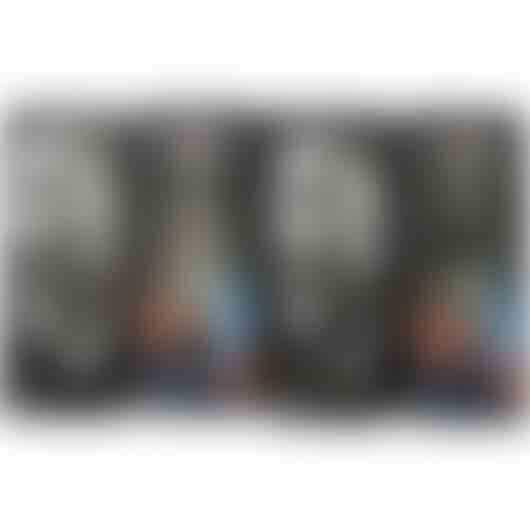
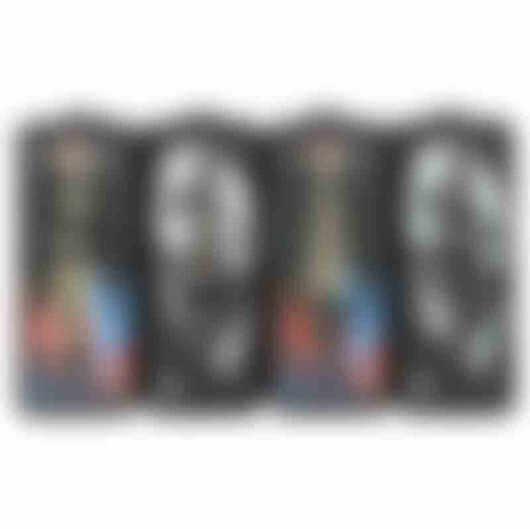
added expression pedal.

diff --git a/nunjucks/expression.html b/nunjucks/expression.html
@@ -1,6 +1,6 @@
-<% set title="Desktop Slider Expression Pedal by MAS Effects" %>
-<% set meta_description="Easily tweak knobs on your favorite pedals from the comfort of your desktop, mic stand, or anywhere within reach using this expression slider pedal for guitar, bass, or synth." %>
-<% set og_image="https://mas-effects.com/img/expression.png" %>
+<% set title="Desktop Slider Expression and Volume Pedal by MAS Effects" %>
+<% set meta_description="Slider volume and expression pedal can be used to tame a loud tube amp, or to easily tweak knobs on your favorite pedals from the comfort of your desktop, mic stand, or anywhere within reach. This expression slider and volume slider works great for guitar, bass, or synth." %>
+<% set og_image="https://mas-effects.com/img/expression/4x-expression.jpg" %>
 <% extends "partials/_template.html" %>
 
 <% block body %>
@@ -11,34 +11,125 @@
     <div class="container">
       <div class="row">
         <div class="col text-center">
-          <h1 class="mb-4 section-heading text-uppercase">Desktop Slider Expression Pedal</h1>
+          <h1 class="mb-4 section-heading text-uppercase">Desktop Slider Expression &amp; Volume Pedal</h1>
           <h3 class="section-subheading text-muted">Tweak your favorite settings from the comfort of your desktop, mic stand, or anywhere within reach</h3>
         </div>
       </div>
       <div class="row">
         <div class="col-12 col-md-6 text-center">
-          <img class="lazy img-fluid" src="/img/expression-placeholder.jpg" data-src="/img/expression.png" alt="Desktop Slider Expression Pedal" />
+          <img class="lazy img-fluid" src="/img/expression/4x-expression-placeholder.jpg" data-src="/img/expression/4x-expression.jpg" alt="Desktop Slider Expression + Volume Pedal" />
+          <form action="https://shop.mas-effects.com/cart/add" method="GET">
+            <select class="expression-pot mx-auto form-control form-control-sm" name="id">
+              <optgroup label="Volume + Expression [$49]">
+                <option value="40752969973921">Abduction (Vol + Exp, 100k)</option>
+                <option value="40752970006689">Abduction (Vol + Exp, 10k)</option>
+                <option value="40752970137761">Split Skull (Vol + Exp, 100k)</option>
+                <option value="40752970170529">Split Skull (Vol + Exp, 10k)</option>
+              </optgroup>
+              <optgroup label="Expression [$39]">
+                <option value="40752969908385">Abduction (Exp only, 100k)</option>
+                <option value="40752969941153">Abduction (Exp only, 10k)</option>
+                <option value="40752970072225">Split Skull (Exp only, 100k)</option>
+                <option value="40752970104993">Split Skull (Exp only, 10k)</option>
+              </optgroup>
+            </select>
+            <button type="submit" class="mt-2 btn btn-primary">Buy Now</button>
+          </form>
         </div>
         <div class="col-12 col-md-6 small">
+          <h5>Overview</h5>
           <p>
-            Two Designs to choose from.
+            Use this as either an expression pedal or volume pedal, from the convenience of your desktop, mic stand, or anywhere within reach.
+            <small>NOTE: These should be used with your hands, not feet!</small>
           </p>
-          <p>Available in either 100k (most common) or 10k (select pedals, e.g. Boss)</p>
-          <p>Plug this into any other pedal with an expression jack to get remote control of that pedal. <em>NOTE:</em> these sliders are to be manipulated by hand. <strong>Don't use your feet</strong> on them.</p>
-          <p>They are TRS (require stereo cable) and have a B100k potentiometer which works well with EQD, Strymon, EHX, Matthews Effects, and more.  10k is also available for Boss (and perhaps other) pedals. This expression pedal will not work well with Eventide, Line 6, or others that use TS cables.
-          </p>
-          <p><strong>Please check with your pedal's manual or manufacturer for compatibility before purchasing.</strong></p>
 
+          <h5>Expression Pedal Usage</h5>
+          <p>Use a <strong>stereo (TRS) cable</strong> in the top jack to remotely control your other favorite pedals. This <strong>will not work well with Eventide, Line 6, or others that use mono TS cables</strong>.</p>
+
+          <h5>Volume Pedal Usage</h5>
+          <p>This <strong>optional add-on</strong> allows you to use the slider to adjust the volume from your pedal chain, or within a series effects loop (FX loop) of your favorite tube amp.
+          Plug mono (TS) cables into the side input/output jacks then use the slider to bring  your signal down to a better level.
+          <small>NOTE: The linear taper of the potentiometer makes it feel a little more sensitive on the lower half of the slider.</small>
+          </p>
+
+          <h5>100k or 10k?</h5>
+          <p>
+            Available in either 100k or 10k, both with a linear response (B100k and B10k). 100k potentiometers work well with most EQD, Strymon, EHX, Matthews Effects, and more.  10k is also available for Boss (and perhaps other) pedals.
+            <strong>Please check with your pedal's manual or manufacturer for compatibility before purchasing.</strong>
+          </p>
+
+          <!--
           <div class="text-center">
-            <p>
-              <em>Coming Soon (late summer 2021)</em>
-            </p>
             <a class="" href="https://shop.mas-effects.com/collections/featured-products/products/desktop-expression-pedal-prototype-special-edition" target="_blank">Buy Prototype with Special Limited Edition Graphics</a>
 
-            <br>
-            or
-            <br>
-            <a class="btn btn-primary" href="/waitlist/?item=Expression%20Slider">Join Waitlist</a>
+          </div>
+          -->
+        </div>
+      </div>
+      <div class="row">
+        <div class="col text-center">
+          <h2>Volume + Expression Slider [$49]</h2>
+          <div class="row">
+            <div class="col-6 text-center">
+              <img class="expression-picker lazy img-fluid" src="/img/expression/expression-volume-abduction-placeholder.jpg" data-src="/img/expression/expression-volume-abduction.jpg" alt="UFO Abduction Desktop Slider Expression + Volume Slider Pedal" />
+              <div>
+                <strong>Abduction</strong>: Volume + Expression
+                <form action="https://shop.mas-effects.com/cart/add" method="GET">
+                  <select class="expression-pot mx-auto form-control form-control-sm" name="id">
+                    <option value="40752969973921">B100k (most common)</option>
+                    <option value="40752970006689">B10k (Boss)</option>
+                  </select>
+                  <button type="submit" class="mt-2 btn btn-primary">Add to Cart</button>
+                </form>
+              </div>
+            </div>
+            <div class="col-6 text-center">
+              <img class="expression-picker lazy img-fluid" src="/img/expression/expression-volume-skull-placeholder.jpg" data-src="/img/expression/expression-volume-skull.jpg" alt="Split Skull Desktop Slider Expression + Volume Slider Pedal" />
+              <div>
+                <strong>Split Skull</strong>: Volume + Expression
+                <form action="https://shop.mas-effects.com/cart/add" method="GET">
+                  <select class="expression-pot mx-auto form-control form-control-sm" name="id">
+                    <option value="40752970137761">B100k (most common)</option>
+                    <option value="40752970170529">B10k (Boss)</option>
+                  </select>
+                  <button type="submit" class="mt-2 btn btn-primary">Add to Cart</button>
+                </form>
+              </div>
+            </div>
+          </div>
+        </div>
+      </div>
+      <div class="row mt-5">
+        <div class="col text-center">
+          <h2>Expression Slider [$39]</h2>
+          <h3 class="section-subheading text-muted">(No Volume Control)</h3>
+        </div>
+      </div>
+      <div class="row">
+        <div class="col-6 text-center">
+          <img class="expression-picker lazy img-fluid" src="/img/expression/expression-abduction-placeholder.jpg" data-src="/img/expression/expression-abduction.jpg" alt="UFO Abduction Desktop Slider Expression Slider Pedal" />
+          <div>
+            <strong>Abduction </strong>: Expression Only
+            <form action="https://shop.mas-effects.com/cart/add" method="GET">
+              <select class="expression-pot mx-auto form-control form-control-sm" name="id">
+                <option value="40752969908385">B100k (most common)</option>
+                <option value="40752969941153">B10k (Boss)</option>
+              </select>
+              <button type="submit" class="mt-2 btn btn-primary">Add to Cart</button>
+            </form>
+          </div>
+        </div>
+        <div class="col-6 text-center">
+          <img class="expression-picker lazy img-fluid" src="/img/expression/expression-skull-placeholder.jpg" data-src="/img/expression/expression-skull.jpg" alt="Split Skull Desktop Slider Expression Slider Pedal" />
+          <div>
+            <strong>Split Skull</strong>: Expression Only
+            <form action="https://shop.mas-effects.com/cart/add" method="GET">
+              <select class="expression-pot mx-auto form-control form-control-sm" name="id">
+                <option value="40752970072225">B100k (most common)</option>
+                <option value="40752970104993">B10k (Boss)</option>
+              </select>
+              <button type="submit" class="mt-2 btn btn-primary">Add to Cart</button>
+            </form>
           </div>
         </div>
       </div>

diff --git a/scss/mas-effects.scss b/scss/mas-effects.scss
@@ -347,3 +347,10 @@ section.bordered {
   font-size: smaller;
   background-color: #fff833;
 }
+
+img.expression-picker {
+  max-height: 250px;
+}
+select.expression-pot {
+  width: auto;
+}
